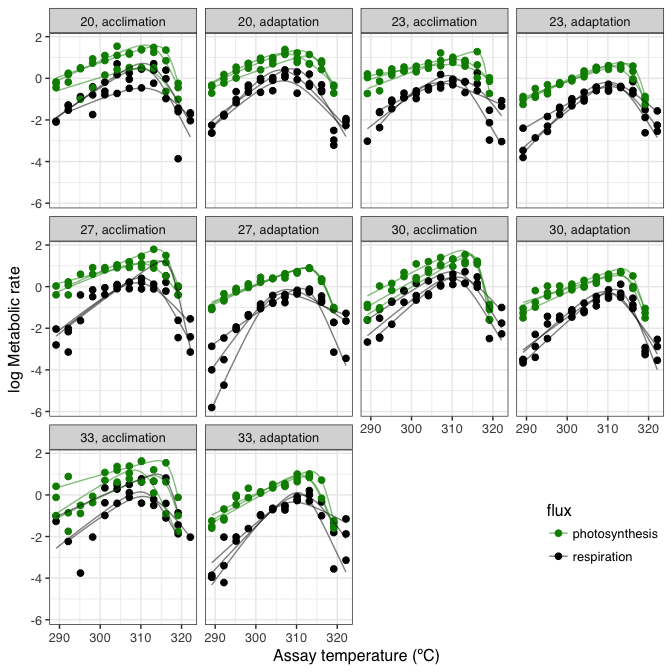
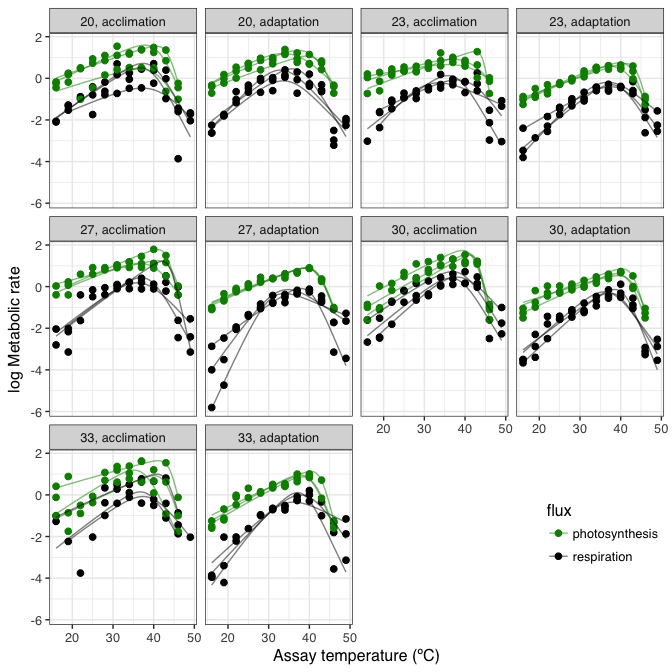
FIX OTHER AXIS PROBLEMS

Changed region(s): [[0.0625, 0.9062, 0.5312, 0.9688], [0.5312, 0.625, 1.0, 0.6562]]

diff --git a/README.md b/README.md
@@ -73,7 +73,7 @@ head(fits$params)
 #>   curve_id       lnc         E       Eh       Th      AIC  quasi_r2
 #> 1        1 -1.346211 0.9877307 4.332645 312.1887 48.01896 0.4608054
 #> 2        2 -1.349431 1.0653450 4.211374 312.6591 22.39398 0.8978426
-#> 3        3 -1.815315 1.1155334 4.140395 310.9545 34.77114 0.7804032
+#> 3        3 -1.815315 1.1155333 4.140395 310.9545 34.77114 0.7804032
 #> 4        4 -1.612615 1.0982576 3.025816 310.6412 31.04688 0.8709134
 #> 5        5 -1.767711 1.1244277 9.010640 317.0688 41.69970 0.7602547
 #> 6        6 -1.717258 1.1727047 4.077252 311.4596 37.03555 0.7289198
@@ -116,8 +116,8 @@ fits$predictions <- merge(fits$predictions, d_treatment, by = 'curve_id')
 
 # plot every curve
 ggplot() +
-  geom_point(aes(K, ln.rate, col = flux), size = 2, Chlorella_TRC) +
-  geom_line(aes(K, ln.rate, col = flux, group = curve_id), alpha = 0.5, fits$predictions) +
+  geom_point(aes(K - 273.15, ln.rate, col = flux), size = 2, Chlorella_TRC) +
+  geom_line(aes(K - 273.15, ln.rate, col = flux, group = curve_id), alpha = 0.5, fits$predictions) +
   facet_wrap(~ growth.temp + process, labeller = labeller(.multi_line = F)) +
   scale_colour_manual(values = c('green4', 'black')) +
   theme_bw(base_size = 12, base_family = 'Helvetica') +
